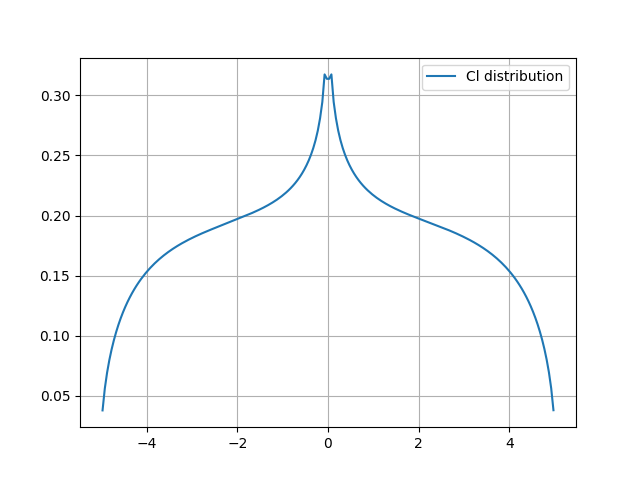
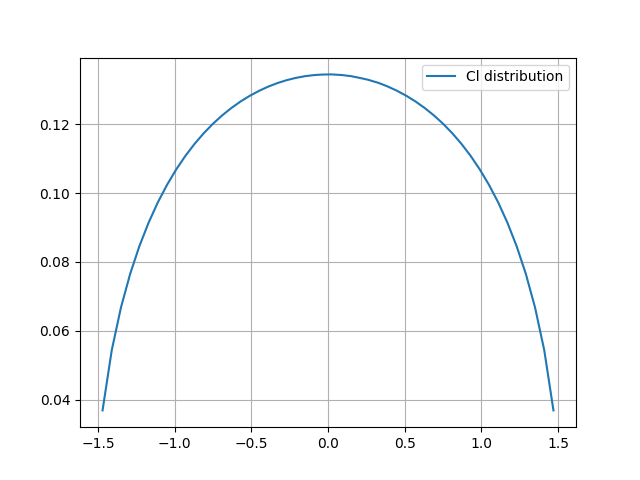
running optimisation

diff --git a/optimisation/rethorst_dir/rethorst_group.py b/optimisation/rethorst_dir/rethorst_group.py
@@ -1,3 +1,4 @@
+from multiprocessing.sharedctypes import Value
 import numpy as np
 from RethorstCorrection_pyf90.mod_velocity_distribution_nonsymmetry import velocity_distribution_nosym
 from RethorstCorrection_pyf90.mod_velocity_distribution_nonsymmetry_d import velocity_distribution_nosym_d
@@ -12,9 +13,9 @@ class Rethorst(om.ExplicitComponent):
         self.options.declare('span_max', default=20., desc='maximum span')
         self.options.declare('r_min', default=0.1, desc='minimum radius')
         self.options.declare('vel_distr_shape', default=100, desc='number of vel discretisation point given by helix')
-        self.options.declare('prop_discr', default=5, desc='prop vel distribution discretisation')
+        self.options.declare('prop_discr', default=3, desc='prop vel distribution discretisation')
         self.options.declare('panels_jet', default=81, desc='panels in jet in overset mesh')
-        self.options.declare('panels_overset_wing', default=1001, desc='panels on wing in overset mesh')
+        self.options.declare('panels_overset_wing', default=1501, desc='panels on wing in overset mesh')
 
     def setup(self):
         panels_span_VLM = self.options['panels_span_VLM']
@@ -23,9 +24,9 @@ class Rethorst(om.ExplicitComponent):
 
         self.add_input('span', val=1.0, units='m')
         self.add_input('jet_loc', val=1.0, units='m')
-        self.add_input('Vinf', val=1.0, units='m/s')        
-        self.add_input('radii', shape=(vel_distr_shape), units='m')
-        self.add_input('velocity_vector', shape=(vel_distr_shape), units='m/s')
+        self.add_input('vinf', val=1.0, units='m/s')        
+        self.add_input('radii', shape_by_conn=True, units='m')
+        self.add_input('velocity_vector', shape_by_conn=True, units='m/s')
 
         self.add_output('correction_matrix',    shape   =   (panels_chord_VLM*panels_span_VLM, panels_chord_VLM*panels_span_VLM), 
                                                 val     =   np.zeros((panels_chord_VLM*panels_span_VLM, panels_chord_VLM*panels_span_VLM)))
@@ -33,17 +34,17 @@ class Rethorst(om.ExplicitComponent):
                                                 val     =   np.zeros((panels_span_VLM)), units='m/s')
 
     def compute(self, inputs, outputs):
-        span                    = inputs['span']
-        jet_loc                 = inputs['jet_loc']
-        Vinf                    = inputs['Vinf']
-        radii_input             = inputs['radii']
-        prop_veldistr           = inputs['velocity_vector']
+        span                    = np.copy(inputs['span'])
+        jet_loc                 = np.copy(inputs['jet_loc'])
+        Vinf                    = np.copy(inputs['vinf'][0])
+        radii_input             = np.copy(inputs['radii'])
+        prop_veldistr           = np.copy(inputs['velocity_vector'])
 
         panels_span_VLM         = self.options['panels_span_VLM']
         panels_chord_VLM        = self.options['panels_chord_VLM']
         span_max                = self.options['span_max']
         r_min                   = self.options['r_min']
-        prop_discr              = self.options['prop_discr']
+        prop_discr              = self.options['prop_discr']            # make sure the propeller isn't too small for this discretisation
         panels_jet              = self.options['panels_jet']
         panels_overset_wing     = self.options['panels_overset_wing']
 
@@ -55,7 +56,17 @@ class Rethorst(om.ExplicitComponent):
 
         velocity_distribution_nosym(    span, jet_loc, prop_veldistr, radii_input, prop_discr, Vinf, panels_jet,
                                         panels_overset_wing, panels_chord_VLM, panels_span_VLM, span_max, r_min, vel_vec, total_correction)
+        if np.isnan(any(sum(total_correction))):
+            raise ValueError('total correction contains nan!')
+        if np.isnan(any(vel_vec)):
+            raise ValueError('total correction contains nan!')
 
+        print('\n============')
+        print('==Rethorst==')
+        print('============')
+        print(f'span {span}')
+        print(f'jet_loc {jet_loc}')
+        
         outputs['correction_matrix'] = total_correction
         outputs['wing_veldistr'] = vel_vec
 
@@ -65,9 +76,9 @@ class Rethorst(om.ExplicitComponent):
 
         span                    = inputs['span']
         jet_loc                 = inputs['jet_loc']
-        radii_input             = inputs['radii']
-        Vinf                    = inputs['Vinf']
-        prop_veldistr           = inputs['velocity_vector']
+        Vinf                    = np.array(inputs['vinf'], order='F')
+        radii_input             = np.array(inputs['radii'], order='F')
+        prop_veldistr           = np.array(inputs['velocity_vector'], order='F')
 
         panels_span_VLM         = self.options['panels_span_VLM']
         panels_chord_VLM        = self.options['panels_chord_VLM']
@@ -83,9 +94,6 @@ class Rethorst(om.ExplicitComponent):
         total_correction = np.zeros((panels_chord_VLM*panels_span_VLM, panels_chord_VLM*panels_span_VLM), order='F')
         vel_vec = np.zeros((panels_span_VLM), order='F')
 
-        # prop_veldistr = np.array(np.flip(np.array(prop_veldistr).reshape((len(prop_veldistr)))), order='F')
-        # radii_input = np.array(radii_input.reshape((len(radii_input))), order='F')
-
         if mode=='fwd':
             self._set_seeds_fwd(d_inputs)
 
@@ -99,14 +107,14 @@ class Rethorst(om.ExplicitComponent):
         # Reverse Mode
         # ================================================
 
-        elif mode=='rev':
-            self._set_seeds_rev(d_outputs)
+        # elif mode=='rev':
+        #     self._set_seeds_rev(d_outputs)
             
-            velocity_distribution_nosym_b(  span, self.spanb, jet_loc, self.jet_loc_inputb, prop_veldistr, self.vel_distr_inputb,
-                                            radii_input, self.radii_inputb, prop_discr, Vinf, self.vinfb, panels_jet, panels_overset_wing, panels_chord_VLM,
-                                            panels_span_VLM, span_max, r_min, vel_vec, self.vel_vecb, total_correction, self.total_correctionb)
+        #     velocity_distribution_nosym_b(  span, self.spanb, jet_loc, self.jet_loc_inputb, prop_veldistr, self.vel_distr_inputb,
+        #                                     radii_input, self.radii_inputb, prop_discr, Vinf, self.vinfb, panels_jet, panels_overset_wing, panels_chord_VLM,
+        #                                     panels_span_VLM, span_max, r_min, vel_vec, self.vel_vecb, total_correction, self.total_correctionb)
 
-            self._get_seeds_rev(d_inputs)
+        #     self._get_seeds_rev(d_inputs)
 
 
     def _zero_seeds(self, inputs):
@@ -137,7 +145,7 @@ class Rethorst(om.ExplicitComponent):
     def _set_seeds_fwd(self, d_inputs):
         self.spand                      = d_inputs['span']
         self.jet_loc_inputd             = d_inputs['jet_loc']
-        self.vinfd                      = d_inputs['Vinf']
+        self.vinfd                      = d_inputs['vinf']
         self.vel_distr_inputd           = np.array(d_inputs['velocity_vector'], order='F')
         self.radii_inputd               = np.array(d_inputs['radii'], order='F')
 
@@ -154,7 +162,7 @@ class Rethorst(om.ExplicitComponent):
     def _get_seeds_rev(self, d_inputs):
         d_inputs['span']                += self.spand
         d_inputs['jet_loc']             += self.jet_loc_inputd
-        d_inputs['Vinf']                += self.vinfd
+        d_inputs['vinf']                += self.vinfd
         d_inputs['velocity_vector']     += self.vel_distr_inputd
         d_inputs['radii']               += self.radii_inputd
 

diff --git a/optimisation/main_optimisation.py b/optimisation/main_optimisation.py
@@ -10,7 +10,6 @@ from helix.openmdao.om_helix import HELIX_Group
 from helix_dir.helix_config import simparam_definition, geometry_definition, references_definition
 from rethorst_dir.rethorst_group import Rethorst
 from constraints.cons_proploc import proploc
-# from obj_function import obj_func
 
 class master(om.Group):
 
@@ -38,19 +37,24 @@ class master(om.Group):
             for iSpan in range(0, N_span):
                 N_elem_span += geometry_def.parametric_def[iParametric].span[iSpan].N_elem_span
         
-        self.add_subsystem('rethorst', subsys=Rethorst(vel_distr_shape=N_elem_span, panels_span_VLM=200))
+        self.add_subsystem('rethorst', subsys=Rethorst(vel_distr_shape=N_elem_span, panels_span_VLM=300))
         
-        self.add_subsystem('EOAS', subsys=EOAS(panels_span_VLM=200))
+        self.add_subsystem('EOAS', subsys=EOAS(panels_span_VLM=300, span_0=10.))
 
-        # self.add_subsystem('obj_fun', subsys=obj_func())
-        
-        # self.add_subsystem('cons_proploc', subsys=proploc())
+        self.add_design_var('parameters.span', lower=9., upper=20.)
+        self.add_design_var('parameters.jet_loc', lower=0.01, upper=10.)
 
         self.connect('helix.rotorcomp_0_velocity_distribution', 'rethorst.velocity_vector')
         self.connect('helix.rotorcomp_0_radii', 'rethorst.radii')
 
+        self.connect('helix.geodef_parametric_0_span', 'EOAS.wing.geometry.mesh.jet_radius')
+
         self.connect('rethorst.correction_matrix', 'EOAS.correction')
         self.connect('rethorst.wing_veldistr', 'EOAS.velocity_distr')
+        self.connect('parameters.jet_loc', 'EOAS.wing.geometry.mesh.jet_loc')
+        self.connect('parameters.span', 'EOAS.wing.geometry.span')
+        self.connect('parameters.jet_loc', 'rethorst.jet_loc')
+        self.connect('parameters.span', 'rethorst.span')
 
         # --- Connecting parameters ----
         self.connect('parameters.vinf', 'EOAS.v')
@@ -65,9 +69,14 @@ class master(om.Group):
         self.connect('parameters.load_factor', 'EOAS.load_factor')
         self.connect('parameters.empty_cg', 'EOAS.empty_cg')
 
-        self.connect('parameters.vinf', 'rethorst.Vinf')
+        self.connect('parameters.vinf', 'rethorst.vinf')
+
+        # self.add_design_var('EOAS.velocity_distr', lower=20., upper=200.)
+        # self.add_design_var('EOAS.wing.geometry.span', lower=5., upper=30.)
+        # self.add_design_var('EOAS.wing.geometry.mesh.jet_loc', lower=0., upper=1.)
         
-        self.add_objective('EOAS.AS_point_0.fuelburn')
+        # self.add_constraint("AS_point_0.L_equals_W", equals=0.0)
+        self.add_objective("EOAS.AS_point_0.fuelburn", scaler=1e-5)
 
 prob = om.Problem()
 model = prob.model
@@ -107,45 +116,43 @@ if True:
             dihed[iSpan] = parametric.parametric_def[iParametric].span[iSpan].dihed
 
         # Section Variables (hard-coding shape for now)
-        # model.add_design_var(name + "span",lower=0.1, upper=1)
+        model.add_design_var(name + "span",lower=0.1, upper=1)
         # model.add_design_var(name + "chord",lower=0.01, upper=0.1)
         # model.add_design_var(name + "twist",lower=-50, upper=50)
         # model.add_design_var(name + "alpha_0",lower=0.1, upper=1)
         # model.add_design_var(name + "alpha_L0",lower=-0.5, upper=0.5)
         # model.add_design_var(name + "Cl_alpha",lower=np.pi, upper=2.5*np.pi)
 
-span = 0.748
-jet_loc = span*(0.5-0.444)
+radius = 0.0174195+sum(span)
 
-model.add_design_var('rethorst.span', lower=20., upper=30) # couple this to EOAS.span
-# model.add_design_var('rethorst.jet_loc', lower=0., upper=1.)
 # model.add_design_var('EOAS.wing.geometry.span', lower=10, upper=30)
 # model.add_design_var('EOAS.wing.geometry.mesh.jet_loc', lower=-5., upper=5.)
 # model.add_design_var('EOAS.wing.geometry.twist_cp', lower=0.5, upper=4.)
 # model.add_design_var('EOAS.wing.geometry.chord', lower=0.5, upper=4.)
 
-model.approx_totals()
+prob.setup(mode='fwd')
 
-prob.setup()
+prob.set_val(name + "span", val=span)
+prob.set_val(name + "chord",val=chord)
+prob.set_val(name + "twist",val=twist)
+prob.set_val(name + "alpha_0",val=alpha_0)
+prob.set_val(name + "alpha_L0",val=alpha_L0)
+prob.set_val(name + "Cl_alpha",val=Cl_alpha)
+# prob.set_val('EOAS.wing.geometry.mesh.jet_radius',val=radius)
 
-# prob.set_val(name + "span", val=span)
-# prob.set_val(name + "chord",val=chord)
-# prob.set_val(name + "twist",val=twist)
-# prob.set_val(name + "alpha_0",val=alpha_0)
-# prob.set_val(name + "alpha_L0",val=alpha_L0)
-# prob.set_val(name + "Cl_alpha",val=Cl_alpha)
-prob.set_val('rethorst.span',val=span)
-prob.set_val('rethorst.jet_loc',val=jet_loc)
-
-prob.driver = om.ScipyOptimizeDriver()
-prob.driver.options['optimizer'] = 'SLSQP'
+prob.driver = om.pyOptSparseDriver()
+prob.driver.options['optimizer'] = 'SNOPT'
 # prob.driver.options['maxiter'] = 100
-prob.driver.options['tol'] = 1e-9
+# prob.driver.options['tol'] = 1e-9
 
-# prob.run_driver()
-prob.run_model()
+prob.run_driver()
+# prob.run_model()
+# prob.check_partials(compact_print=True, show_only_incorrect=False, includes=['*EOAS*'], form='central') # excludes=['*parameters*, *helix*, *EOAS*, *rethorst*']
+# prob.check_totals(compact_print=True,  form='central')
 
 # --- Plotting of results ---
+print(prob.get_val('rethorst.span'))
+print(prob.get_val('rethorst.jet_loc'))
 print("The fuel burn value is", prob["EOAS.AS_point_0.fuelburn"][0], "[kg]")
 
 cl_dist = prob.get_val('EOAS.AS_point_0.wing_perf.aero_funcs.Cl')

diff --git a/optimisation/helix_dir/helix_config.py b/optimisation/helix_dir/helix_config.py
@@ -22,7 +22,7 @@ def simparam_definition():
 
     simparam.nt_rev = 30
 
-    simparam.v_inf = np.array([100.0, 0.0, 0.0])
+    simparam.v_inf = np.array([0.0, 0.0, -40.0])
     simparam.rho_inf = 1.25
 
     return simparam
@@ -70,7 +70,7 @@ def geometry_definition():
 
     # Reference Parameters
     N_span = len(airfoilSecs["span"])
-    rotor.ref_point = np.array([0.0, 0.02023364, 0.0])
+    rotor.ref_point = np.array([0.0, 0.0174195, 0.0])
     rotor.ref_chord_frac = 0.5
 
     # Symmetry Parameters
@@ -91,7 +91,7 @@ def geometry_definition():
         "mult_type": "rotor",
         "n_blades": 4,
         "rot_axis": np.array([0.0, 0.0, 1.0]),
-        "rot_rate": -100,
+        "rot_rate": -1320,
         "psi_0": 0.0,
         "hub_offset": 0.0,
         "n_dofs": 0,
@@ -106,16 +106,36 @@ def geometry_definition():
         rotor.sec[iSec].alpha_0 = 8. # airfoilSecs['chord'][iSec]
         rotor.sec[iSec].alpha_L0 = airfoilSecs['alpha_L0'][iSec]
         rotor.sec[iSec].Cl_alpha = airfoilSecs['Cl_alpha'][iSec]
-        rotor.sec[iSec].M = 50.0
+        rotor.sec[iSec].M = airfoilSecs['M'][iSec]
 
     for iSpan in range(len(airfoilSecs["span"])):
         rotor.span[iSpan].span = airfoilSecs["span"][iSpan]
         rotor.span[iSpan].sweep = 0.0
         rotor.span[iSpan].dihed = 0.0
-        rotor.span[iSpan].N_elem_span = 4
+        rotor.span[iSpan].N_elem_span = 1
         rotor.span[iSpan].span_type = 1
 
     # Append To Vehicle
     geometry_def.append_component(rotor)
 
     return geometry_def
+
+# 0.005315011557610248,
+# 0.005315011557610234,
+# 0.005315011557610244,
+# 0.005315011557610244,
+# 0.005315011557610244,
+# 0.005315011557610237,
+# 0.005315011557610244,
+# 0.005315011557610244,
+# 0.005315011557610244,
+# 0.005315011557610244,
+# 0.005315011557610244,
+# 0.005315011557610244,
+# 0.00531501155761023,
+# 0.005315011557610244,
+# 0.00531501155761023,
+# 0.005315011557610244,
+# 0.005315011557610244,
+# 0.005315011557610244,
+# 0.005315011557610244

diff --git a/optimisation/EOAS/EOAS_group.py b/optimisation/EOAS/EOAS_group.py
@@ -12,9 +12,10 @@ class EOAS(om.Group):
     def initialize(self):
         self.options.declare('panels_span_VLM', default=300)
         self.options.declare('panels_chord_VLM', default=1)
+        self.options.declare('span_0', default=10.)
 
     def setup(self):
-        
+        span_0 = self.options['span_0']
         mesh_dict = {
             # Wing definition
             "num_x": self.options['panels_chord_VLM']+1,  # number of chordwise points
@@ -27,7 +28,7 @@ class EOAS(om.Group):
             "symmetry": False,  # if true, model one half of wing
             # reflected across the plane y = 0
             # Simple Geometric Variables
-            "span": 10.,  # full wingspan, even for symmetric cases
+            "span": span_0,  # full wingspan, even for symmetric cases
             "root_chord": 1.0,  # root chord
             # "dihedral": 0.0,  # wing dihedral angle in degrees
             # positive is upward
@@ -51,7 +52,7 @@ class EOAS(om.Group):
             "thickness_cp": np.array([0.1, 0.2, 0.3]),
             # "twist_cp": twist_cp,
             "mesh": mesh,
-            "span": 10.,
+            "span": span_0,
             "chord_cp": chord_cp,
             "propeller": 1,
             # Aerodynamic performance of the lifting surface at

diff --git a/optimisation/parametersinput.py b/optimisation/parametersinput.py
@@ -9,7 +9,7 @@ class parameters(om.IndepVarComp):
         pass
 
     def setup(self):
-        self.add_output("vinf", val=100., units="m/s")
+        self.add_output("vinf", val=40., units="m/s")
         self.add_output("alpha", val=2., units="deg")
         self.add_output("Mach_number", val=0.84)
         self.add_output("re", val=1.0e6, units="1/m")
@@ -20,3 +20,6 @@ class parameters(om.IndepVarComp):
         self.add_output("speed_of_sound", val=295.4, units="m/s")
         self.add_output("load_factor", val=1.)
         self.add_output("empty_cg", val=np.zeros((3)), units="m")
+
+        self.add_output("span", val=10., units="m")
+        self.add_output("jet_loc", val=1., units="m")
